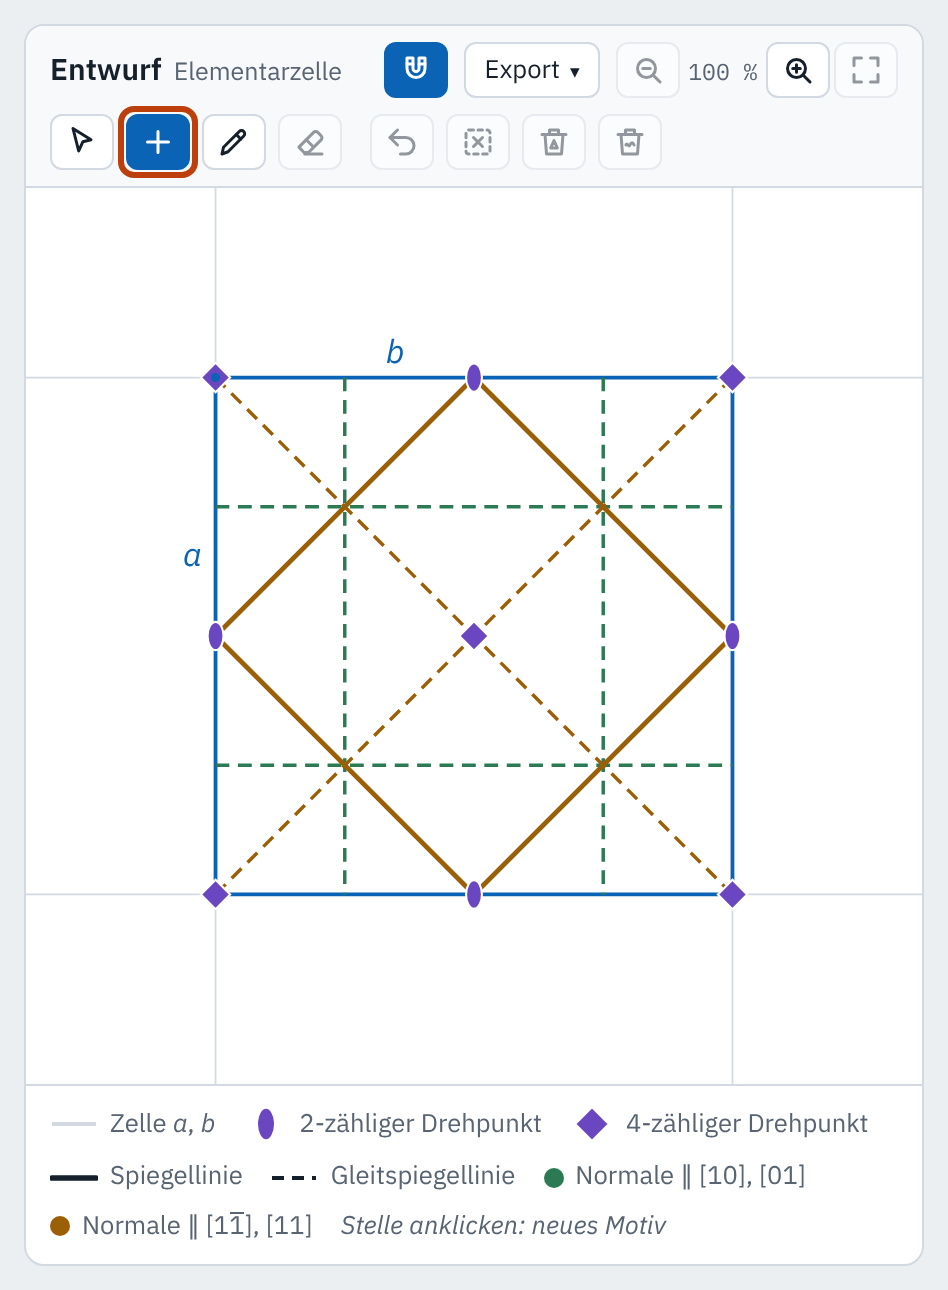
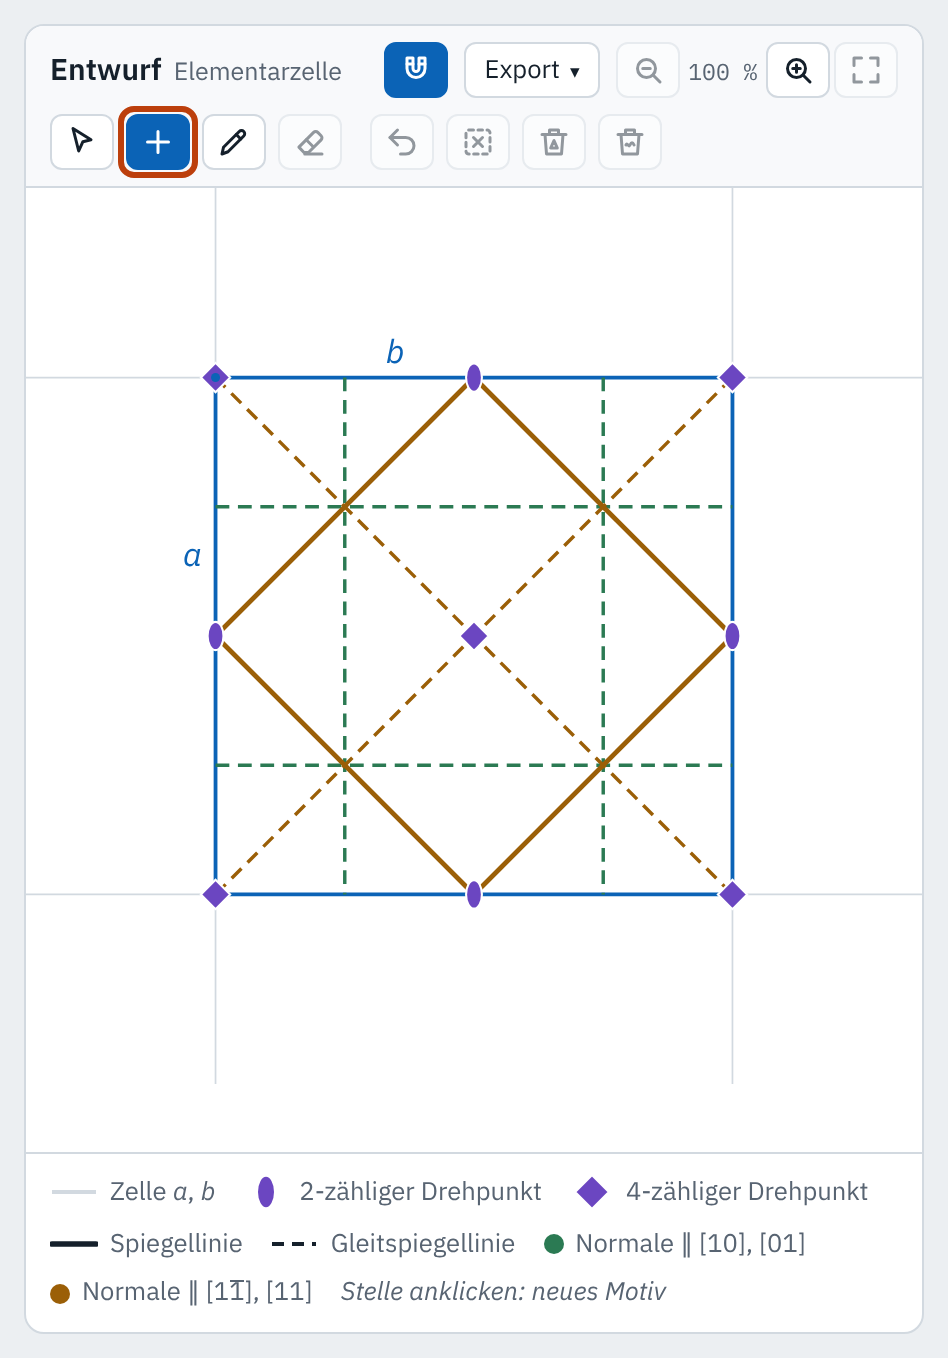
Tafeln auf gleicher Höhe (Subgrid), ohne Hinweis „Füllen und Zoom ruhen“ und „(wie ITA)“
Claude-Session: https://claude.ai/code/session_01L8SY96VTcRYuEB7LDLyNSV

diff --git a/index.html b/index.html
@@ -22,6 +22,18 @@
 @media (max-width: 719px) {
   .bild { width: min(100%, 38svh); margin-inline: auto; }
 }
+/* Tafeln nebeneinander: beide teilen die Zeilen Kopf, Zeichnung, Leiste bzw. Fusszeile, Legende (Subgrid), damit die
+   Zeichnungen auf gleicher Höhe beginnen, auch wenn der Kopf von Tafel A zweizeilig ist (Thomas, 13.11.2026) */
+@media (min-width: 1000px) {
+  .figs { display: grid; grid-column: 2 / 4; grid-row: 1; grid-template-columns: subgrid; grid-template-rows: repeat(4, auto); }
+  .figs > .panel { grid-row: 1 / span 4; display: grid; grid-template-rows: subgrid; }
+  .figs > .p-a { grid-column: 1; }
+  .figs > .p-b { grid-column: 2; }
+  .figs > .panel > .panel-head { grid-row: 1; }
+  .figs > .panel > .bild { grid-row: 2; }
+  .figs > .panel > .erklleiste, .figs > .panel > .panel-foot { grid-row: 3; align-self: start; }
+  .figs > .panel > .legend { grid-row: 4; }
+}
 .tabs button:disabled { opacity: 0.5; cursor: not-allowed; }
 .lg .sym-icon { flex: none; }
 /* Motivauswahl: ein Raster mit etwa 6 Knöpfen je Zeile, darüber je Eigensymmetrie eine kleine Überschrift (#130);
@@ -262,7 +274,7 @@ body.verschiebt #bild-a { cursor: grabbing; }
               <button type="button" data-form="fahne" aria-pressed="true">Fähnchen</button>
               <button type="button" data-form="komma" aria-pressed="false">Kreis mit Komma</button>
             </div>
-            <label class="check" id="row-orbit"><input type="checkbox" id="opt-orbit"><span>Bilder rund um die Zelle (wie ITA)<span class="why"></span></span></label>
+            <label class="check" id="row-orbit"><input type="checkbox" id="opt-orbit"><span>Bilder rund um die Zelle<span class="why"></span></span></label>
           </div>
         </details>
       </section>

diff --git a/js/main.js b/js/main.js
@@ -357,7 +357,7 @@ function legende(f) {
     items.push(`<span class="lg"><i class="sw" style="background:${f.fc4}"></i>${erklaerung.erzeugende ? 'C' : 'A, dann'}</span>`);
     items.push(`<span class="lg"><i class="sw" style="background:${f.accent}"></i>Element von C</span>`);
   }
-  if (erklaerend(z)) items.push(`<span class="lg hint">Füllen und Zoom ruhen, ${SOLANGE_ERKLAERT}</span>`);
+  // dass Füllen und Zoom ruhen, zeigen die gesperrten Knöpfe; den Grund für „Füllen“ nennt die Seitenleiste
   if (!z.objekt) items.push(`<span class="lg hint">Einrasten${z.schritt > 0 ? '' : ' und „Schritt für Schritt“'} nur mit „Objekt in allgemeiner Lage“</span>`);
   // Grund gesperrter Erklärungen, die nicht gewählt sind (gewählte nennen ihn in der Leiste; Leitfaden Abschn. 5.2)
   if (!z.elemente) {

diff --git a/js/zustand.js b/js/zustand.js
@@ -192,7 +192,7 @@ export function startzustand() {
     einrasten: true,
     zoomA: 1, // Zoom von Tafel A in allen Modi (ZOOM_A_BEREICH, zoomAusschnitt in zeichnung.js; vorher die Lupe)
     ausschnitt: { eg: null, struktur: null, entwurf: null }, // Mitte des Ausschnitts von Tafel A je Modus, nur im Speicher
-    orbit: false, // Bilder rund um die Zelle (wie ITA), Rand ORBIT_RAND in zeichnung.js
+    orbit: false, // Bilder rund um die Zelle (wie in der ITA), Rand ORBIT_RAND in zeichnung.js
     musterElemente: false, // Symmetrieelemente in Tafel B
     herkunft: false, // „Herkunft der Elemente“: ein gewähltes Element zeigt, woher es kommt
     erkl: null, // gewähltes Element (Schlüssel aus herkunft.js, z. B. „m;1/4,0;0,1“)

diff --git a/js/zeichnung.js b/js/zeichnung.js
@@ -311,7 +311,7 @@ export function objektMassstab(M, A, groesse = 1, k = 1) {
 
 /** Alle Bilder des Punktes p in den Zellen [lo, hi]² mit Rand, je { punkt, R, eigentlich }. */
 /**
- * Rand um die Zellen für „Bilder rund um die Zelle (wie ITA)“, in Bruchteilen der Zelle. Mit ⅓
+ * Rand um die Zellen für „Bilder rund um die Zelle“, in Bruchteilen der Zelle. Mit ⅓
  * sind die Gruppen um die Elemente auf dem Zellrand vollständig, solange das Objekt höchstens ⅓
  * von ihnen entfernt liegt (Startpunkt 0,12; 0,31). ITA nennt keine Regel; die Diagramme der
  * allgemeinen Lage zeigen die Gruppen um die Ecken vollständig, mit einem Punkt nahe am Ursprung.

diff --git a/js/hilfetexte.js b/js/hilfetexte.js
@@ -42,7 +42,7 @@ export const TIPS = {
   'opt-ae': 'Kleinster Teil der Zelle, aus dem die Operationen die ganze Zelle erzeugen.',
   'opt-zellen': 'Vier Elementarzellen statt einer.',
   'seg-form': 'Spiegelbild: Komma im Kreis (ITA) bzw. Fahne auf der anderen Seite.',
-  'opt-orbit': 'Rand von ⅓ der Zelle.',
+  'opt-orbit': 'Bilder in einem Rand von ⅓ der Zelle, wie in den International Tables.',
   'obj-x': 'In Bruchteilen von a.',
   'obj-y': 'In Bruchteilen von b.',
   'obj-groesse': 'Grösse des Objekts im Verhältnis zur Zelle.',

diff --git a/CHANGELOG.md b/CHANGELOG.md
@@ -10,6 +10,7 @@ Das Format folgt [Keep a Changelog](https://keepachangelog.com/de/1.1.0/), die V
 
 - **Zoom und Verschieben statt Lupe** (#162, Leitfaden 5.1, Entscheidung Thomas, 13.11.2026): Beide Tafeln zoomen mit Mausrad, zwei Fingern oder −, + und Einpassen im Kopf der Tafel (auf dem Telefon nur mit zwei Fingern); das Symmetriegerüst bzw. die Struktur bis 8-fach. Den Ausschnitt von Tafel A verschieben Ziehen ins Leere mit „Wählen und ziehen“, zwei Finger, Leertaste + Ziehen (auch beim Zeichnen und Radieren) und die Pfeiltasten. Die Lupe und der Regler „Vergrösserung des Musters“ entfallen. **Link und Speicher:** neue Schlüssel `zoomA` und `zoomB` (vorher `lupe` und `zoom`); die Mitte des Ausschnitts steht nur im Speicher. Alte Links mit `lupe` oder `zoom` und gespeicherte Stände gelten nicht mehr (Startwert).
 - **Erklärungen in Tafel A** (#162, Leitfaden 5.1, Entscheidung Thomas, 13.11.2026): „Schritt für Schritt“, „Aufbau aus Erzeugenden“ und „Herkunft der Elemente“ wählt man im Kopf des Symmetriegerüsts, immer nur eine; eine Leiste unter der Zeichnung schaltet die Schritte durch (◀ ▶, Abspielen, ×) und nennt den Grund, wenn die Erklärung ruht. Die Abschnitte „Schritt für Schritt“ und „Aufbau aus Erzeugenden“ der Seitenleiste entfallen, ebenso die Knöpfe im Kasten der Kenndaten; der Aufbau hat dort jetzt einen eigenen Kasten. Die Erklärungen schliessen sich aus: Ein Link oder gespeicherter Stand mit zweien davon (`schritt`, `aufbau`, `herkunft`) gilt nicht mehr und ergibt für alle den Startwert; ein Element (`erkl`) ohne `herkunft=1` ebenso. Bei „Herkunft der Elemente“ nennt die Leiste das gewählte Element, „Abspielen“ wiederholt seine Herleitung. Im Kasten zu „Schritt für Schritt“ entfällt die Zeile „Bilder bisher …“; die Zahl der verschiedenen Stellen steht dort, wo ein Bild zusammenfällt.
+- **Tafeln auf gleicher Höhe:** Nebeneinander beginnen Symmetriegerüst und Muster auf derselben Höhe, und beide Tafeln sind gleich hoch, auch wenn der Kopf des Symmetriegerüsts zweizeilig ist. Die Legende sagt nicht mehr „Füllen und Zoom ruhen …“ (die gesperrten Knöpfe zeigen es); „Bilder rund um die Zelle“ ohne „(wie ITA)“, die ITA nennt der Tooltip.
 - **„In „Muster entwerfen“ weiterbearbeiten“ in den Kenndaten** (#162, Leitfaden 5.1, Entscheidung Thomas, 13.11.2026): Der Knopf steht bei der bestimmten Gruppe neben „im Modus „Ebenengruppen“ ansehen“, Grund (wenn gesperrt) oder Folge darunter; der Abschnitt „Weiterbearbeiten“ der Seitenleiste entfällt.
 - **Hinweise der Seitenleiste ins ⓘ** (#162, Leitfaden 5.2): Unter gesperrten Gitterreglern und Gruppen steht nur noch der Grund in einem Halbsatz (z. B. „γ im rechteckigen System festgelegt.“); die Erklärungen zu „Gitter“, „Asymmetrische Einheit füllen“ und zur Grenze von 48 Bildern stehen im ⓘ des Abschnitts. Einleitungen im ⓘ und Tooltips ohne „antippen“, weil das ⓘ jetzt auch mit der Maus erscheint; die Hilfeseite nennt das ⓘ neben den Tooltips.
 - **Gemeinsame Grundlage** auf crystallography-common v0.20.0: Das ⓘ an den Überschriften erscheint auf allen Geräten, auch mit der Maus (crystallography-common#140), und bricht nie allein in eine neue Zeile; mit der Maus ist seine Trefferfläche 28 px. Leitfaden 5.1 (Erklärabläufe, Zoom und Übergänge zwischen Modi gehören in die Tafel) und 5.2 (Grund unter einem gesperrten Element in einem Halbsatz); die App folgt darin mit #162.

diff --git a/CLAUDE.md b/CLAUDE.md
@@ -187,6 +187,12 @@ für diese App gilt.
     auf die Zeichnung tut, sagt die Legende.
   - **Kopf der Tafeln:** Der Untertitel bricht unter den Titel um, bevor er unter Schalter und Export läuft (bei 1024–1100 px
     in „Ebenengruppen“; #162), wie in stereography (stereography#140).
+  - **Tafeln auf gleicher Höhe** (Thomas, 13.11.2026: „Das sieht einfach unschön aus“): Nebeneinander (ab 1000 px) teilen
+    beide Tafeln die Zeilen Kopf, Zeichnung, Leiste bzw. Fusszeile und Legende über ein CSS-Subgrid (`.figs` im `<style>` von
+    `index.html`, Leitfaden Abschn. 5.1 erlaubt eine eigene Anordnung). Sonst begann die Zeichnung in Tafel A tiefer, weil ihr
+    Kopf mit der Erklärungsauswahl zweizeilig ist.
+  - **Kein Hinweis „Füllen und Zoom ruhen“** in der Legende (Thomas, 13.11.2026): Die gesperrten Zoomknöpfe zeigen es, den
+    Grund für „Füllen“ nennt die Seitenleiste. „Bilder rund um die Zelle“ ohne „(wie ITA)“; der Tooltip nennt die ITA.
 - **Bilder:** nur selbst erzeugte, keine Fotos. Escher nur beschreiben und verlinken (Werke geschützt).
 - **Dreiecksbeispiel:** Spitzen entlang *b*, damit die Symbole ohne Umrechnung der ITA-Standardaufstellung
   entsprechen. Drei Stufen pm → cm → p2mg (fester Testfall).

diff --git a/README.md b/README.md
@@ -96,7 +96,7 @@ Der Zustand steht lesbar in der Adresse, z. B. `#m=eg&g=p4gm&x=0.12&y=0.31`. Ges
 | `form` | Form des Objekts | **`fahne`**, `komma` (Kreis mit Komma wie ITA) |
 | `og` | Grösse des Objekts (Faktor; im Gitter, in beiden Tafeln im selben Verhältnis zur Zelle) | 0.5–3, **1** |
 | `rast` | Einrasten beim Ziehen (in allen Modi): auf spezielle Lagen („Ebenengruppen“, „Muster entwerfen“), auf Zwölftel der Zelle und 15° („Gitter und Basis“, „Muster entwerfen“) | `0`, **`1`** |
-| `orbit` | Bilder rund um die Zelle (wie ITA) | **`0`**, `1` |
+| `orbit` | Bilder rund um die Zelle (Rand wie in den ITA-Diagrammen) | **`0`**, `1` |
 | `fuell` | asymmetrische Einheit gefüllt und vervielfältigt (in allen Modi) | **`0`**, `1` |
 | `farb` | nach Blickrichtung färben (in allen Modi) | `0`, **`1`** |
 | `mel` | Symmetrieelemente im Muster (in allen Modi) | **`0`**, `1` |
